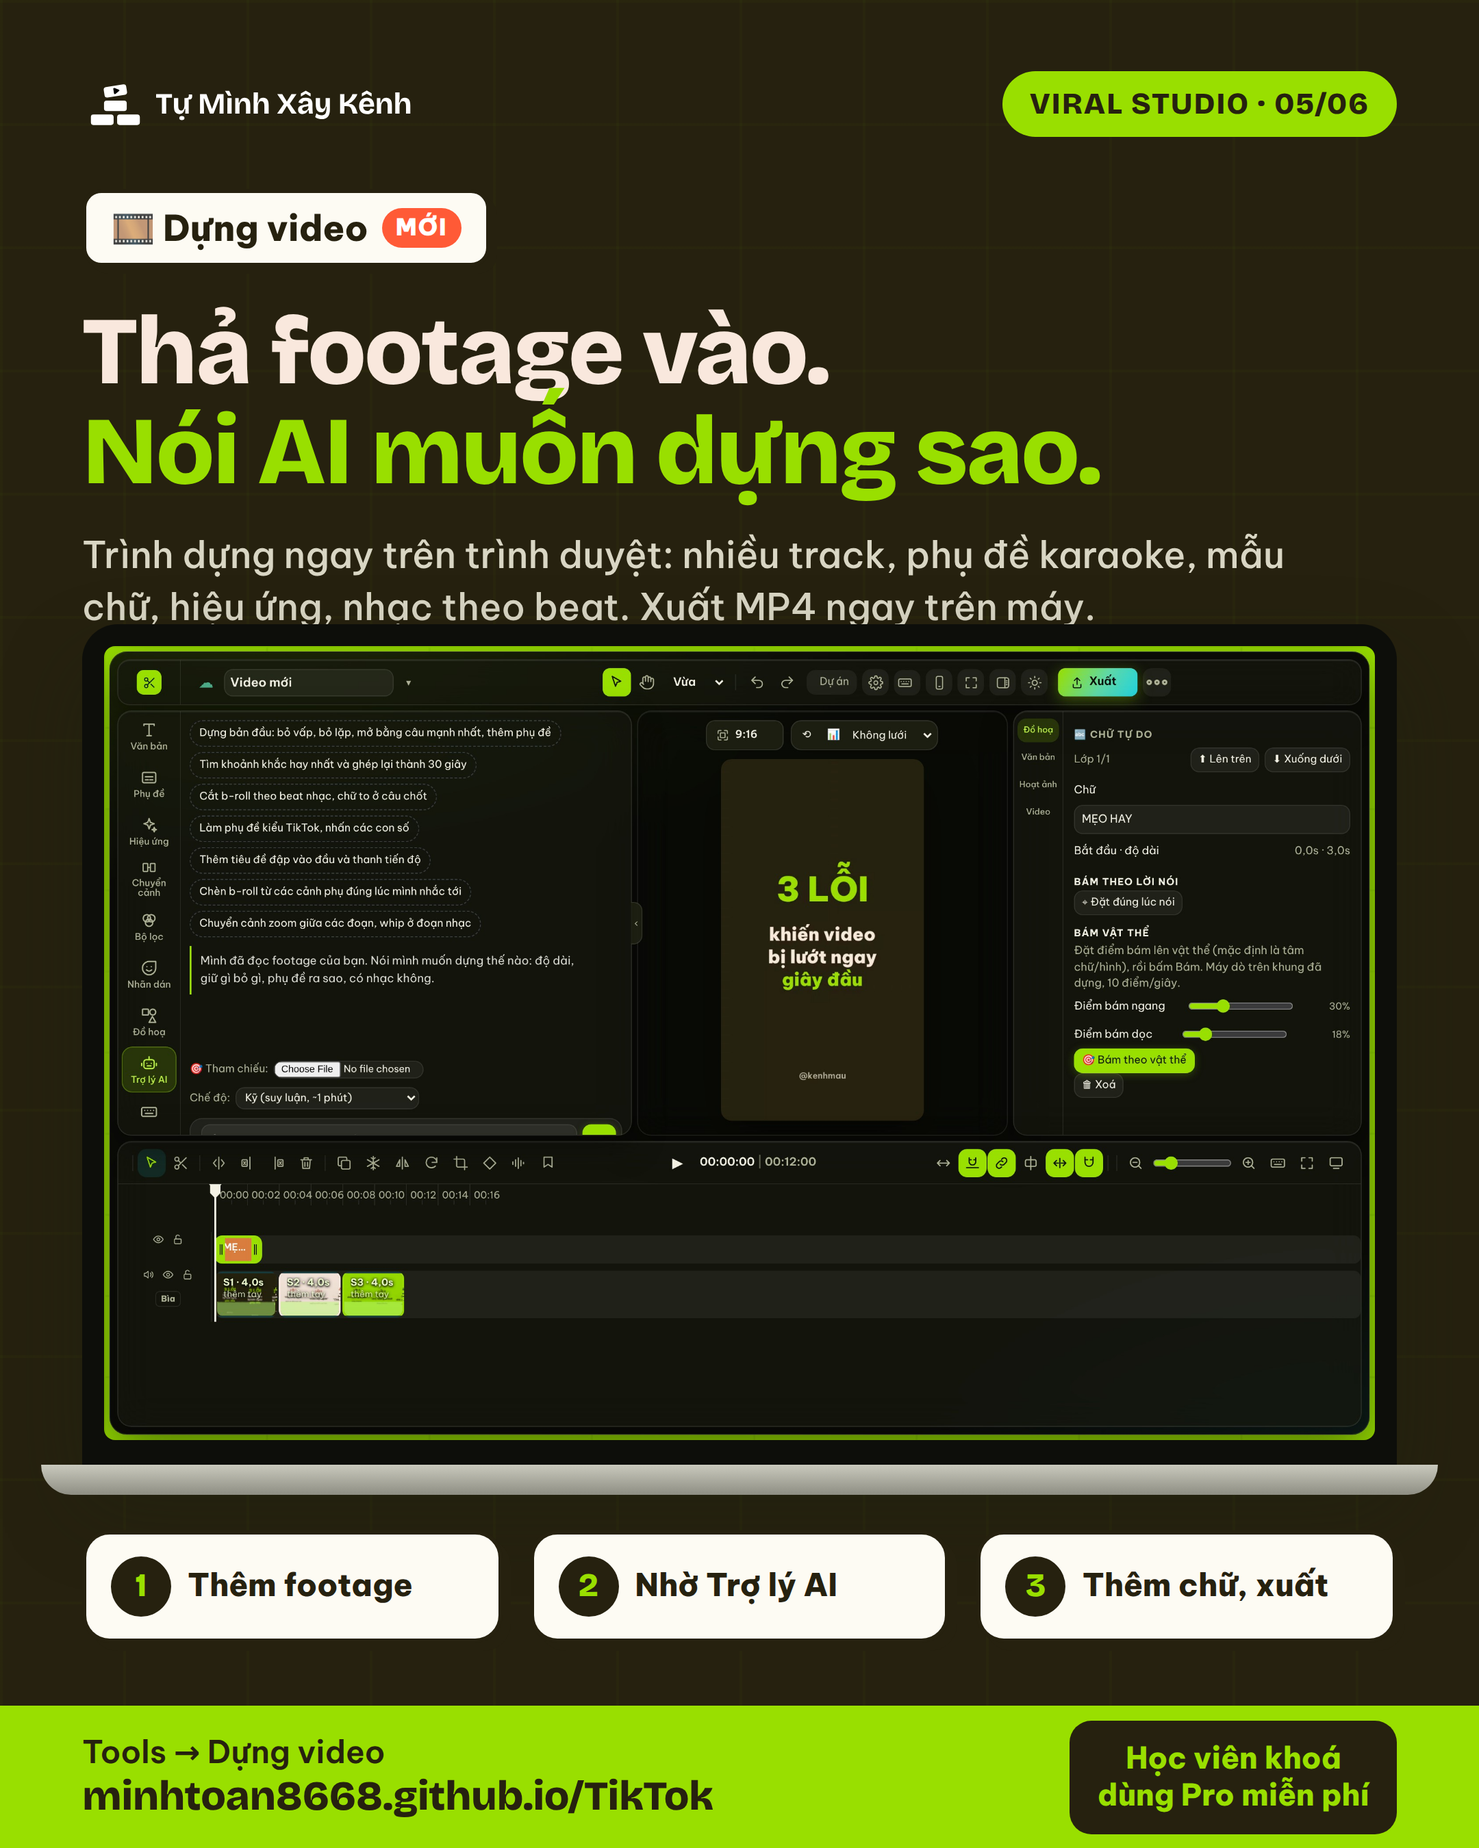
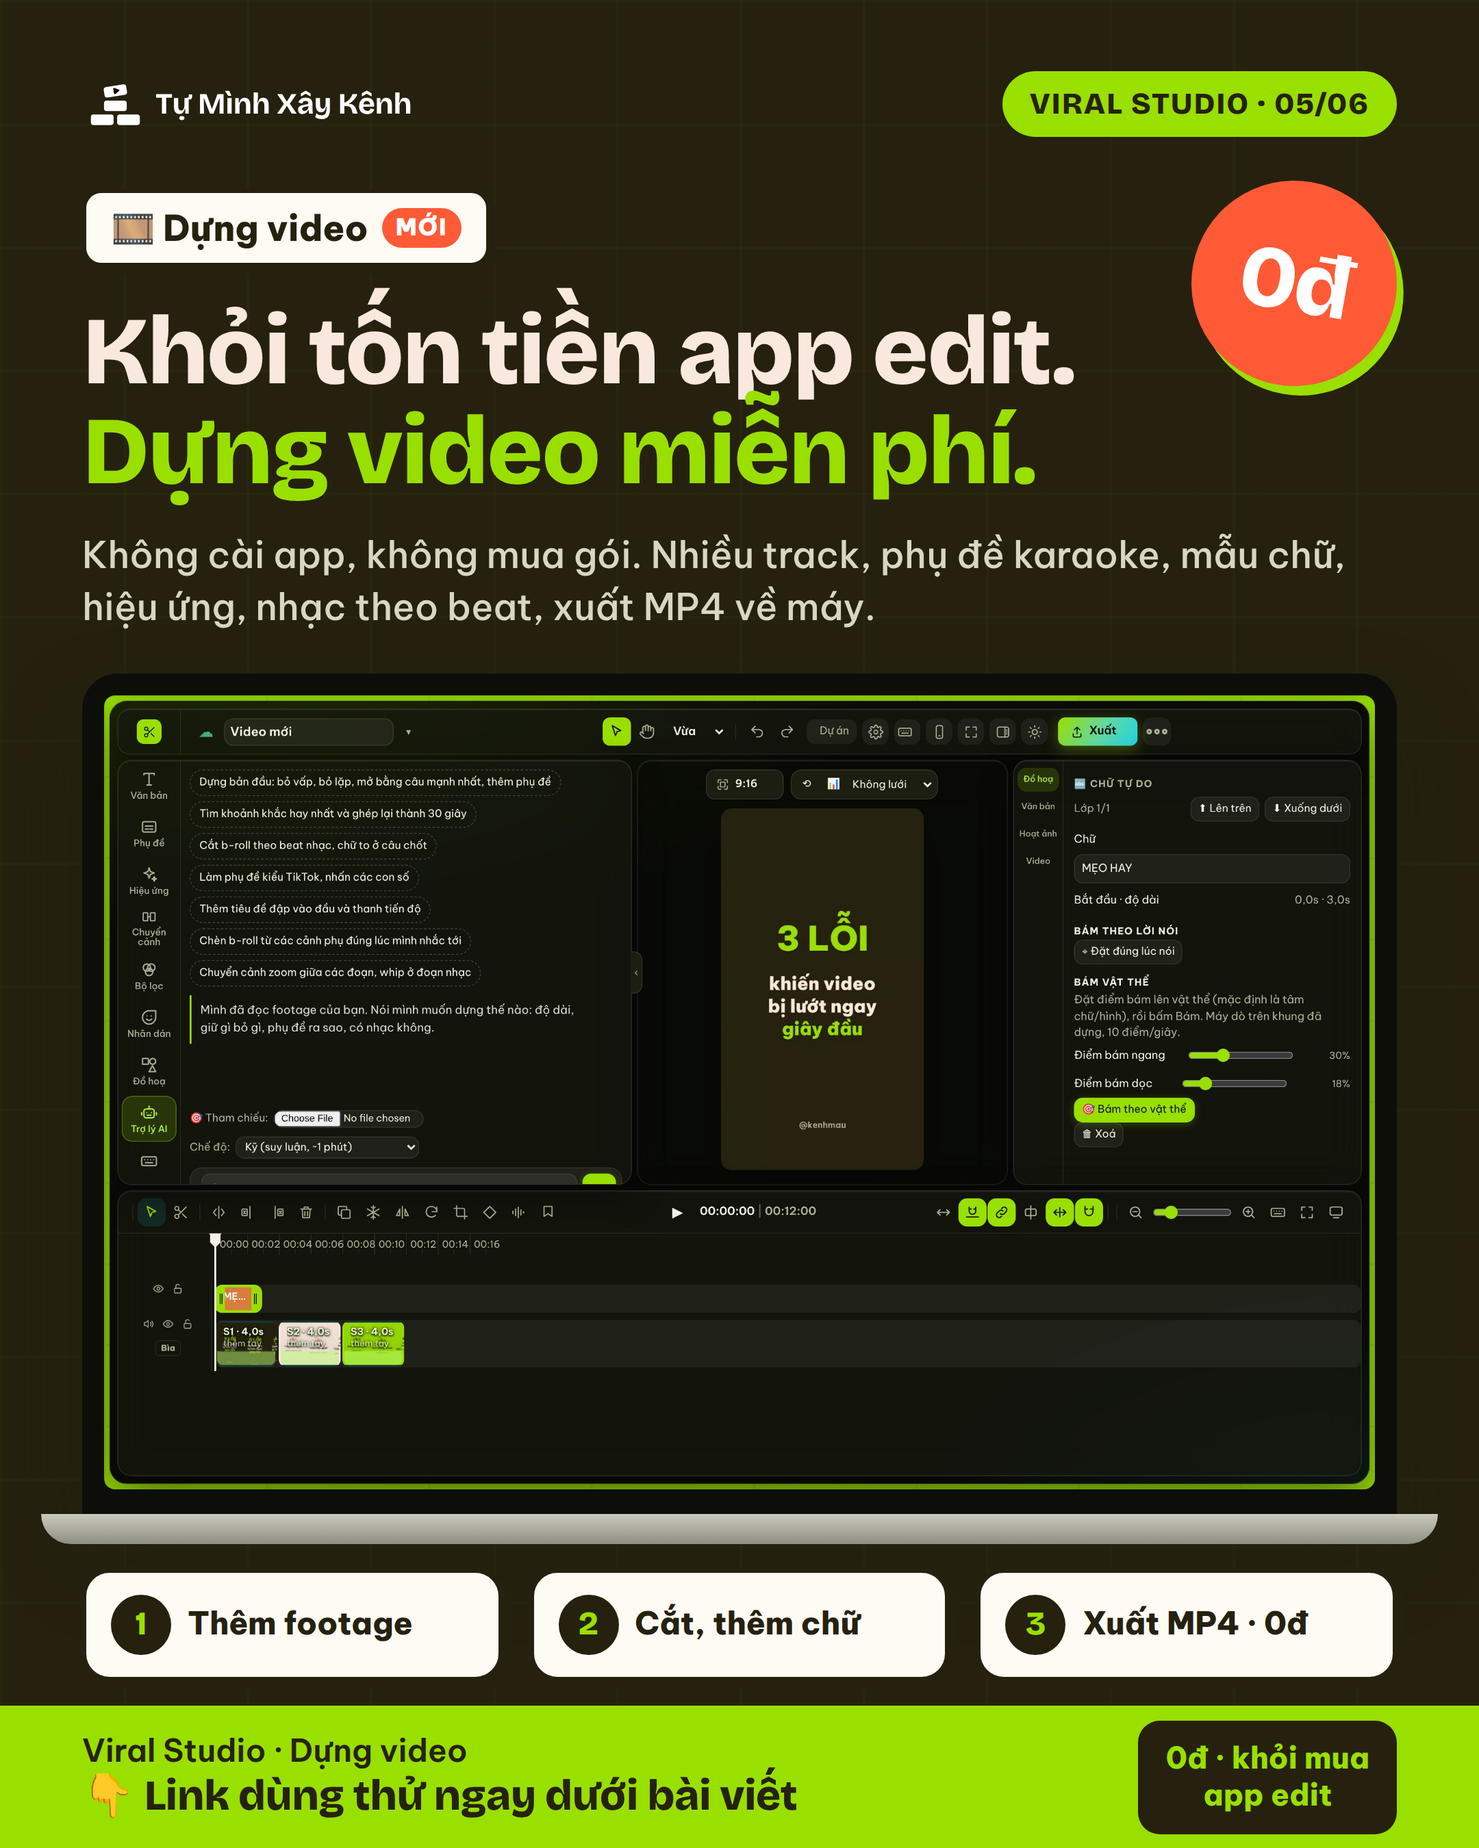
Poster Facebook: bỏ link ở chân ảnh, dẫn xuống link dưới bài, mời người ngoài dùng thử miễn phí
Dựng video nhấn vào chuyện khỏi tốn tiền mua app edit, caption viết lại cho người ngoài.

Claude-Session: https://claude.ai/code/session_01DLoQkHnYKA1ATrTvxbMQPm

diff --git a/poster-fb/poster.html b/poster-fb/poster.html
@@ -76,10 +76,12 @@
   .zoom em::before{content:"🔍"}
   .mui{position:absolute;font:800 24px/1.2 var(--font-display);color:var(--ink);transform:rotate(var(--r,-4deg))}
 
+  .khong-d{position:absolute;right:0;top:-6px;width:150px;height:150px;border-radius:50%;background:var(--red);color:#fff;display:grid;place-items:center;
+    font:800 64px/1 var(--font-display);transform:rotate(10deg);box-shadow:6px 6px 0 var(--lime);letter-spacing:-.03em}
   /* ── chân trang ── */
   .chan{position:absolute;left:0;right:0;bottom:0;height:104px;background:var(--ink);color:var(--paper);display:flex;align-items:center;justify-content:space-between;padding:0 60px;gap:20px}
   .chan .link{font:600 23px/1.3 var(--font-ui)}
-  .chan .link b{display:block;font:800 30px/1.15 var(--font-display);color:var(--lime);letter-spacing:-.01em}
+  .chan .link b{display:block;font:800 31px/1.15 var(--font-display);color:var(--lime);letter-spacing:-.01em}
   .chan .hv{font:800 22px/1.25 var(--font-ui);background:var(--lime);color:var(--ink);padding:14px 20px;border-radius:16px;text-align:center}
   .toi .chan{background:var(--lime);color:var(--ink)}
   .toi .chan .link b{color:var(--ink)}
@@ -114,20 +116,20 @@
 <section class="poster toi" id="00-tong-quan">
   <div class="dau"><img src="../assets/brand/tmxk-lockup-trang.svg" alt="Tự Mình Xây Kênh"><span class="so">Viral Studio</span></div>
   <div class="tieude">
-    <span class="nhan" style="color:var(--ink)">✦ Bộ tool AI của khoá</span>
-    <h1>6 tool AI làm video viral,<br><mark>ngay trên điện thoại.</mark></h1>
-    <p>AI train từ hàng trăm video viral đã mổ bằng số liệu thật, làm đúng quy trình trong lớp Tự Mình Xây Kênh.</p>
+    <span class="nhan" style="color:var(--ink)">✦ Dùng thử miễn phí</span>
+    <h1>6 tool làm video viral,<br><mark>ngay trên điện thoại.</mark></h1>
+    <p>AI train từ hàng trăm video viral đã mổ bằng số liệu thật. Mở trình duyệt là dùng thử, không cần cài app.</p>
   </div>
   <div class="luoi6">
     <div class="o"><i class="free">FREE</i><div class="anh" style="background-image:url(anh/tai-2.jpg);background-position:center 18%"></div><div class="chu"><h3>⬇ Tải video</h3><p>Dán link, lấy video không logo, ảnh gốc, nhạc nền.</p></div></div>
     <div class="o"><div class="anh" style="background-image:url(anh/soi-3.jpg)"></div><div class="chu"><h3>🔎 Soi video viral</h3><p>Mổ vì sao video người ta nổ, áp khuôn sang kênh bạn.</p></div></div>
     <div class="o"><div class="anh" style="background-image:url(anh/hook-3.jpg);background-position:center 9%"></div><div class="chu"><h3>⚡ Hook viral</h3><p>Chấm hook trên 100, viết lại 5 bản, đặt chữ lên video.</p></div></div>
     <div class="o"><div class="anh" style="background-image:url(anh/kb-3.jpg)"></div><div class="chu"><h3>📝 Kịch bản viral</h3><p>Viết theo 11 khung, biết trước giây nào người xem lướt.</p></div></div>
-    <div class="o"><i>MỚI</i><div class="anh" style="background-image:url(anh/dung-3.jpg);background-size:190% auto;background-position:62% 22%"></div><div class="chu"><h3>🎞 Dựng video</h3><p>Thả footage, nhờ Trợ lý AI dựng, xuất MP4 trên máy.</p></div></div>
+    <div class="o"><i>MỚI</i><div class="anh" style="background-image:url(anh/dung-3.jpg);background-size:190% auto;background-position:62% 22%"></div><div class="chu"><h3>🎞 Dựng video</h3><p>Khỏi mua app edit: dựng, chèn chữ, xuất MP4 0đ.</p></div></div>
     <div class="o"><i>MỚI</i><div class="anh" style="background-image:url(anh/cv-2.jpg)"></div><div class="chu"><h3>🎯 Chấm video</h3><p>AI xem trọn video bạn làm, chỉ đúng giây đang hỏng.</p></div></div>
   </div>
   <div class="ghichu">Ảnh chụp giao diện thật · dữ liệu minh hoạ</div>
-  <div class="chan"><div class="link">Mở Viral Studio tại<b>minhtoan8668.github.io/TikTok</b></div><div class="hv">Học viên khoá<br>dùng Pro miễn phí</div></div>
+  <div class="chan"><div class="link">Viral Studio · 6 tool làm video viral<b>👇 Link dùng thử ngay dưới bài viết</b></div><div class="hv">Dùng thử miễn phí<br>không cần cài app</div></div>
 </section>
 
 <!-- ═══════════ 01 · TẢI VIDEO ═══════════ -->
@@ -146,7 +148,7 @@
   </ol>
   <div class="zoom" style="--src:url(anh/tai-3.jpg);--x:30;--y:465;--cw:330;--ch:125;--k:1.5;right:66px;bottom:136px"><em>Không logo</em></div>
   <div class="ghichu">Ảnh chụp giao diện thật · dữ liệu minh hoạ</div>
-  <div class="chan"><div class="link">Tools → Tải video<b>minhtoan8668.github.io/TikTok</b></div><div class="hv">Học viên khoá:<br>tải không giới hạn</div></div>
+  <div class="chan"><div class="link">Viral Studio · Tải video<b>👇 Link dùng thử ngay dưới bài viết</b></div><div class="hv">Miễn phí<br>không logo, không app</div></div>
 </section>
 
 <section class="poster giay" id="01b-tai-video-cach-dung">
@@ -158,7 +160,7 @@
     <div class="cot"><span class="soto">3</span><div class="dt"><div class="man"><img src="anh/tai-3.jpg" alt=""></div></div><h4>Chọn file, Tải về</h4><p>Video HD không logo, nhạc nền, ảnh bìa.</p></div>
   </div>
   <div class="ghichu" style="top:auto;bottom:116px">Chỉ tải nội dung bạn có quyền dùng · tải về để học, không đăng lại nguyên bản</div>
-  <div class="chan"><div class="link">Tools → Tải video<b>minhtoan8668.github.io/TikTok</b></div><div class="hv">Học viên khoá:<br>tải không giới hạn</div></div>
+  <div class="chan"><div class="link">Viral Studio · Tải video<b>👇 Link dùng thử ngay dưới bài viết</b></div><div class="hv">Miễn phí<br>không logo, không app</div></div>
 </section>
 
 <!-- ═══════════ 02 · SOI VIDEO VIRAL ═══════════ -->
@@ -177,7 +179,7 @@
   </ol>
   <div class="zoom" style="--src:url(anh/soi-cua3.jpg);--x:0;--y:90;--cw:390;--ch:140;--k:1.28;right:66px;bottom:136px"><em>Khuôn để mượn</em></div>
   <div class="ghichu">Ảnh chụp giao diện thật · dữ liệu minh hoạ</div>
-  <div class="chan"><div class="link">Tools → Soi video viral<b>minhtoan8668.github.io/TikTok</b></div><div class="hv">Học viên khoá<br>dùng Pro miễn phí</div></div>
+  <div class="chan"><div class="link">Viral Studio · Soi video viral<b>👇 Link dùng thử ngay dưới bài viết</b></div><div class="hv">Dùng thử AI<br>miễn phí</div></div>
 </section>
 
 <section class="poster giay" id="02b-soi-video-cach-dung">
@@ -188,7 +190,7 @@
     <div class="cot"><span class="soto">2</span><div class="dt"><div class="man"><img src="anh/soi-2.jpg" alt=""></div></div><h4>Đọc phần tóm tắt</h4><p>Ngách, dạng video, tệp người xem, lời thoại theo giây.</p></div>
     <div class="cot"><span class="soto">3</span><div class="dt"><div class="man"><img src="anh/soi-3.jpg" alt=""></div></div><h4>Mượn khuôn 3 cửa</h4><p>Kèm hook và lời thoại mẫu cho kênh bạn.</p></div>
   </div>
-  <div class="chan"><div class="link">Tools → Soi video viral<b>minhtoan8668.github.io/TikTok</b></div><div class="hv">Học viên khoá<br>dùng Pro miễn phí</div></div>
+  <div class="chan"><div class="link">Viral Studio · Soi video viral<b>👇 Link dùng thử ngay dưới bài viết</b></div><div class="hv">Dùng thử AI<br>miễn phí</div></div>
 </section>
 
 <!-- ═══════════ 03 · HOOK VIRAL ═══════════ -->
@@ -207,7 +209,7 @@
   </ol>
   <div class="zoom" style="--src:url(anh/hook-2.jpg);--x:20;--y:665;--cw:355;--ch:148;--k:1.4;right:66px;bottom:136px"><em>Kéo vào CapCut</em></div>
   <div class="ghichu">Ảnh chụp giao diện thật · dữ liệu minh hoạ</div>
-  <div class="chan"><div class="link">Tools → Hook viral<b>minhtoan8668.github.io/TikTok</b></div><div class="hv">Học viên khoá<br>dùng Pro miễn phí</div></div>
+  <div class="chan"><div class="link">Viral Studio · Hook viral<b>👇 Link dùng thử ngay dưới bài viết</b></div><div class="hv">Dùng thử AI<br>miễn phí</div></div>
 </section>
 
 <section class="poster giay" id="03b-hook-viral-cach-dung">
@@ -218,7 +220,7 @@
     <div class="cot"><span class="soto">2</span><div class="dt"><div class="man"><img src="anh/hook-3.jpg" alt=""></div></div><h4>Bấm Phân tích</h4><p>Điểm hook gốc và 5 bản viết lại. Bấm Dùng để thay.</p></div>
     <div class="cot"><span class="soto">3</span><div class="dt"><div class="man"><img src="anh/hook-2.jpg" alt=""></div></div><h4>Chỉnh chữ, xuất PNG</h4><p>Kéo chữ, đổi bố cục, nhấn màu từ khoá.</p></div>
   </div>
-  <div class="chan"><div class="link">Tools → Hook viral<b>minhtoan8668.github.io/TikTok</b></div><div class="hv">Học viên khoá<br>dùng Pro miễn phí</div></div>
+  <div class="chan"><div class="link">Viral Studio · Hook viral<b>👇 Link dùng thử ngay dưới bài viết</b></div><div class="hv">Dùng thử AI<br>miễn phí</div></div>
 </section>
 
 <!-- ═══════════ 04 · KỊCH BẢN VIRAL ═══════════ -->
@@ -237,7 +239,7 @@
   </ol>
   <div class="zoom" style="--src:url(anh/kb-2.jpg);--x:15;--y:460;--cw:362;--ch:140;--k:1.38;right:66px;bottom:136px"><em>Canh từng giây</em></div>
   <div class="ghichu">Ảnh chụp giao diện thật · dữ liệu minh hoạ</div>
-  <div class="chan"><div class="link">Tools → Kịch bản viral<b>minhtoan8668.github.io/TikTok</b></div><div class="hv">Học viên khoá<br>dùng Pro miễn phí</div></div>
+  <div class="chan"><div class="link">Viral Studio · Kịch bản viral<b>👇 Link dùng thử ngay dưới bài viết</b></div><div class="hv">Dùng thử AI<br>miễn phí</div></div>
 </section>
 
 <section class="poster giay" id="04b-kich-ban-cach-dung">
@@ -248,36 +250,36 @@
     <div class="cot"><span class="soto">2</span><div class="dt"><div class="man"><img src="anh/kb-2.jpg" alt=""></div></div><h4>Viết theo gợi ý</h4><p>Số giây từng phần hiện ngay bên cạnh.</p></div>
     <div class="cot"><span class="soto">3</span><div class="dt"><div class="man"><img src="anh/kb-3.jpg" alt=""></div></div><h4>Bấm Chấm</h4><p>Sửa theo góp ý hoặc để AI viết lại cả bài.</p></div>
   </div>
-  <div class="chan"><div class="link">Tools → Kịch bản viral<b>minhtoan8668.github.io/TikTok</b></div><div class="hv">Học viên khoá<br>dùng Pro miễn phí</div></div>
+  <div class="chan"><div class="link">Viral Studio · Kịch bản viral<b>👇 Link dùng thử ngay dưới bài viết</b></div><div class="hv">Dùng thử AI<br>miễn phí</div></div>
 </section>
 
 <!-- ═══════════ 05 · DỰNG VIDEO ═══════════ -->
 <section class="poster toi" id="05-dung-video">
   <div class="dau"><img src="../assets/brand/tmxk-lockup-trang.svg" alt="Tự Mình Xây Kênh"><span class="so">Viral Studio · 05/06</span></div>
   <div class="tieude">
-    <span class="nhan" style="color:var(--ink)">🎞 Dựng video <i>MỚI</i></span>
-    <h1>Thả footage vào.<br><mark>Nói AI muốn dựng sao.</mark></h1>
-    <p>Trình dựng ngay trên trình duyệt: nhiều track, phụ đề karaoke, mẫu chữ, hiệu ứng, nhạc theo beat. Xuất MP4 ngay trên máy.</p>
+    <span class="nhan" style="color:var(--ink)">🎞 Dựng video <i>MỚI</i></span><span class="khong-d">0đ</span>
+    <h1>Khỏi tốn tiền app edit.<br><mark>Dựng video miễn phí.</mark></h1>
+    <p>Không cài app, không mua gói. Nhiều track, phụ đề karaoke, mẫu chữ, hiệu ứng, nhạc theo beat, xuất MP4 về máy.</p>
   </div>
-  <div class="lap" style="top:456px"><div class="vien"><img src="anh/dung-3.jpg" alt=""></div><div class="de"></div></div>
-  <ol class="buoc ngang" style="left:60px;right:60px;top:1118px">
+  <div class="lap" style="top:492px"><div class="vien"><img src="anh/dung-3.jpg" alt=""></div><div class="de"></div></div>
+  <ol class="buoc ngang" style="left:60px;right:60px;top:1146px">
     <li style="padding:16px 18px"><div style="display:flex;gap:12px;align-items:center"><b style="width:44px;height:44px;font-size:24px">1</b><strong style="font-size:23px">Thêm footage</strong></div></li>
-    <li style="padding:16px 18px"><div style="display:flex;gap:12px;align-items:center"><b style="width:44px;height:44px;font-size:24px">2</b><strong style="font-size:23px">Nhờ Trợ lý AI</strong></div></li>
-    <li style="padding:16px 18px"><div style="display:flex;gap:12px;align-items:center"><b style="width:44px;height:44px;font-size:24px">3</b><strong style="font-size:23px">Thêm chữ, xuất</strong></div></li>
+    <li style="padding:16px 18px"><div style="display:flex;gap:12px;align-items:center"><b style="width:44px;height:44px;font-size:24px">2</b><strong style="font-size:23px">Cắt, thêm chữ</strong></div></li>
+    <li style="padding:16px 18px"><div style="display:flex;gap:12px;align-items:center"><b style="width:44px;height:44px;font-size:24px">3</b><strong style="font-size:23px">Xuất MP4 · 0đ</strong></div></li>
   </ol>
-  <div class="chan"><div class="link">Tools → Dựng video<b>minhtoan8668.github.io/TikTok</b></div><div class="hv">Học viên khoá<br>dùng Pro miễn phí</div></div>
+  <div class="chan"><div class="link">Viral Studio · Dựng video<b>👇 Link dùng thử ngay dưới bài viết</b></div><div class="hv">0đ · khỏi mua<br>app edit</div></div>
 </section>
 
 <section class="poster giay" id="05b-dung-video-cach-dung">
   <div class="dau"><img src="../assets/brand/tmxk-lockup.svg" alt="Tự Mình Xây Kênh"><span class="so">Cách dùng · Dựng video</span></div>
-  <div class="tieude nho"><h1>Dựng như CapCut,<br><mark>có AI ngồi cạnh.</mark></h1></div>
+  <div class="tieude nho"><h1>Đủ đồ nghề như app edit,<br><mark>không tốn đồng nào.</mark></h1></div>
   <div class="lap" style="top:340px;left:100px;right:100px"><div class="vien" style="padding:10px 10px 12px;border-radius:18px 18px 0 0"><img src="anh/dung-1.jpg" alt=""></div><div class="de" style="height:14px;margin:0 -20px"></div></div>
   <ol class="buoc" style="left:60px;right:60px;top:950px;gap:16px">
     <li style="padding:16px 20px"><b>1</b><div><strong>Thêm footage, thả lên dòng thời gian</strong><span>Bấm Media → chọn video, ảnh trong máy → bấm + để thêm vào cuối V1.</span></div></li>
-    <li style="padding:16px 20px"><b>2</b><div><strong>Mở Trợ lý AI, gõ yêu cầu</strong><span>“Bỏ vấp, giữ 30 giây hay nhất, thêm phụ đề kiểu TikTok, nhấn con số.”</span></div></li>
+    <li style="padding:16px 20px"><b>2</b><div><strong>Thêm chữ, phụ đề, nhạc rồi Xuất MP4</strong><span>Mẫu chữ có sẵn, phụ đề karaoke, hiệu ứng. Muốn nhanh hơn thì nhờ Trợ lý AI dựng giúp.</span></div></li>
   </ol>
   <div class="ghichu" style="top:auto;bottom:116px">Mẹo: mở trên máy tính để dựng thoải mái nhất</div>
-  <div class="chan"><div class="link">Bước 3: Văn bản → chọn mẫu chữ → Xuất MP4<b>minhtoan8668.github.io/TikTok</b></div><div class="hv">Học viên khoá<br>dùng Pro miễn phí</div></div>
+  <div class="chan"><div class="link">Viral Studio · Dựng video<b>👇 Link dùng thử ngay dưới bài viết</b></div><div class="hv">0đ · khỏi mua<br>app edit</div></div>
 </section>
 
 <!-- ═══════════ 06 · CHẤM VIDEO ═══════════ -->
@@ -296,7 +298,7 @@
   </ol>
   <div class="zoom" style="--src:url(anh/cv-3.jpg);--x:15;--y:122;--cw:362;--ch:128;--k:1.32;right:66px;bottom:136px"><em>Lỗi theo từng giây</em></div>
   <div class="ghichu">Ảnh chụp giao diện thật · dữ liệu minh hoạ</div>
-  <div class="chan"><div class="link">Tools → Chấm video của bạn<b>minhtoan8668.github.io/TikTok</b></div><div class="hv">Học viên khoá<br>dùng Pro miễn phí</div></div>
+  <div class="chan"><div class="link">Viral Studio · Chấm video của bạn<b>👇 Link dùng thử ngay dưới bài viết</b></div><div class="hv">Dùng thử AI<br>miễn phí</div></div>
 </section>
 
 <section class="poster giay" id="06b-cham-video-cach-dung">
@@ -307,7 +309,7 @@
     <div class="cot"><span class="soto">2</span><div class="dt"><div class="man"><img src="anh/cv-3.jpg" alt=""></div></div><h4>Xem lỗi theo giây</h4><p>Nặng, vừa, nhẹ, kèm cách sửa cho từng chỗ.</p></div>
     <div class="cot"><span class="soto">3</span><div class="dt"><div class="man"><img src="anh/cv-4.jpg" alt=""></div></div><h4>Lấy 3 kịch bản tiếp</h4><p>Bám đúng kênh bạn, AI viết trọn được luôn.</p></div>
   </div>
-  <div class="chan"><div class="link">Tools → Chấm video của bạn<b>minhtoan8668.github.io/TikTok</b></div><div class="hv">Học viên khoá<br>dùng Pro miễn phí</div></div>
+  <div class="chan"><div class="link">Viral Studio · Chấm video của bạn<b>👇 Link dùng thử ngay dưới bài viết</b></div><div class="hv">Dùng thử AI<br>miễn phí</div></div>
 </section>
 
 </body>
